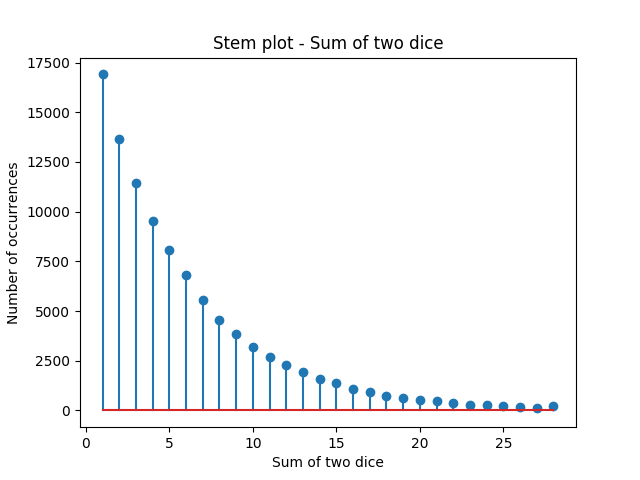
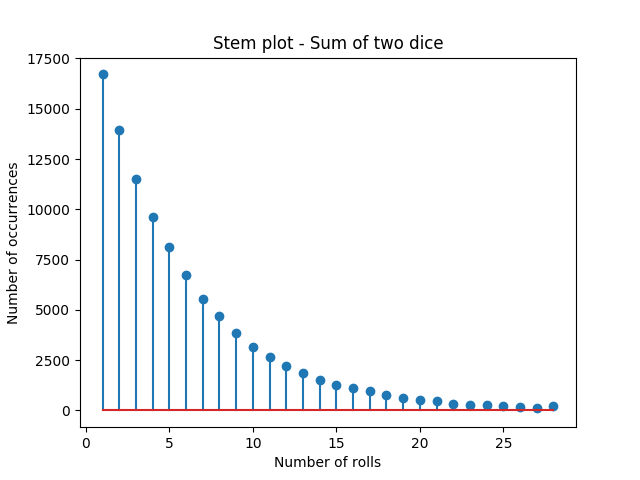
Finished

diff --git a/Project 1/Problems/Project1Problem4.py b/Project 1/Problems/Project1Problem4.py
@@ -1,29 +1,6 @@
 import numpy as np
 import string
 
-'''
-def generatePassword():
-    password = ''
-    for i in range(0, 4):
-        password += string.ascii_letters[np.random.randint(0, 26)]
-    return password
-
-def generateList():
-    N = 10**2
-    passwords = []
-    for i in range (0, N):
-        passwords.append(generatePassword())
-    return passwords
-
-for i in range(0, N):
-    hackerlist = generateList()
-    if (yourPassword in hackerlist):
-        success = success + 1
-    
-p = success / N
-print('The probability of a hacker having your password is ' + str(p))
-
-'''
 possiblePasswords = 26**4
 
 # The number way
@@ -38,8 +15,10 @@ N = 1000
 yourPassword = generatePassword()
 success = 0
 
+hackerListSize = 317000
+
 for i in range(0, N):
-    hackerlist = generateList(10**6)
+    hackerlist = generateList(hackerListSize)
     if (yourPassword in hackerlist):
         success = success + 1
     

diff --git a/Project 1/New folder/Test.py b/Project 1/New folder/Test.py
@@ -1,0 +1,27 @@
+def convert(x): 
+    if (str(x).isdigit()):
+        return int(x)
+    else:
+        return x
+
+with open("nums.txt", "r") as ins:
+    for line in ins:
+        num = list(map(convert, list(line)))
+        print(num)
+
+        if (num[0] == '$'):
+            print('$$$$$')
+            index = 1
+            while(num[index] == '*'):
+                index = index + 1
+                print("*")
+            if(num[index] != 0 or num[index] == 0 and num[index + 1] == '.'): # No an * anymore
+                print("af")
+            else:
+                print("invalid")
+
+
+
+
+        else:
+            print('ripperino')

diff --git a/Project 1/Problems/Project1Problem1.py b/Project 1/Problems/Project1Problem1.py
@@ -21,7 +21,7 @@ def roll(N):
     fig1 = plt.figure(1)                            # declare figure
     plt.stem(b1,h1)                                 # type of plot, stem plot
     plt.title('Stem plot - Sum of two dice')        # title of graph 
-    plt.xlabel('Sum of two dice')                   # x axis label
+    plt.xlabel('Number of rolls')                   # x axis label
     plt.ylabel('Number of occurrences')             # y axis label
     fig1.savefig('2 EE381 Proj Stoch Exper-1.png')  # name of file saved  
 
